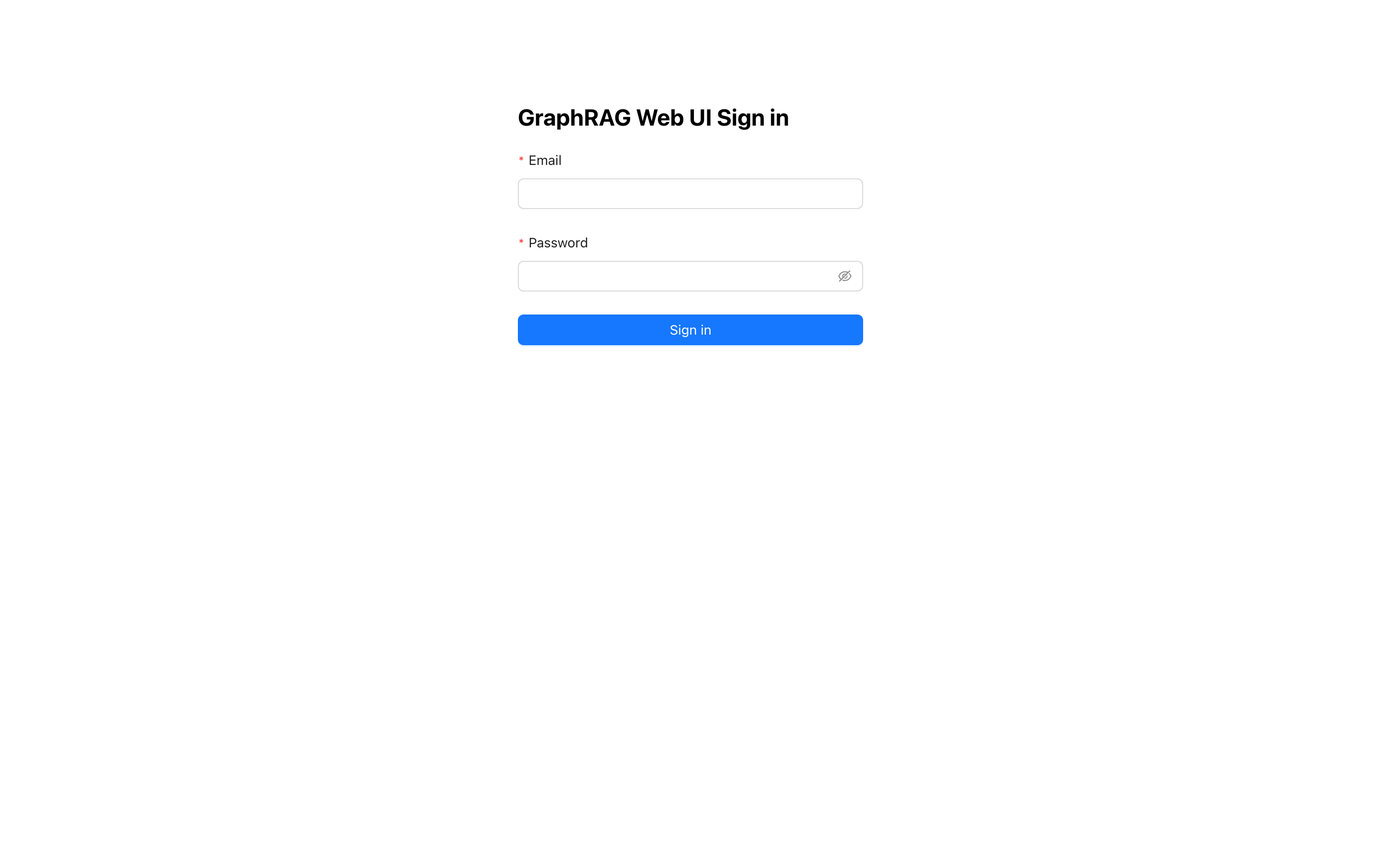
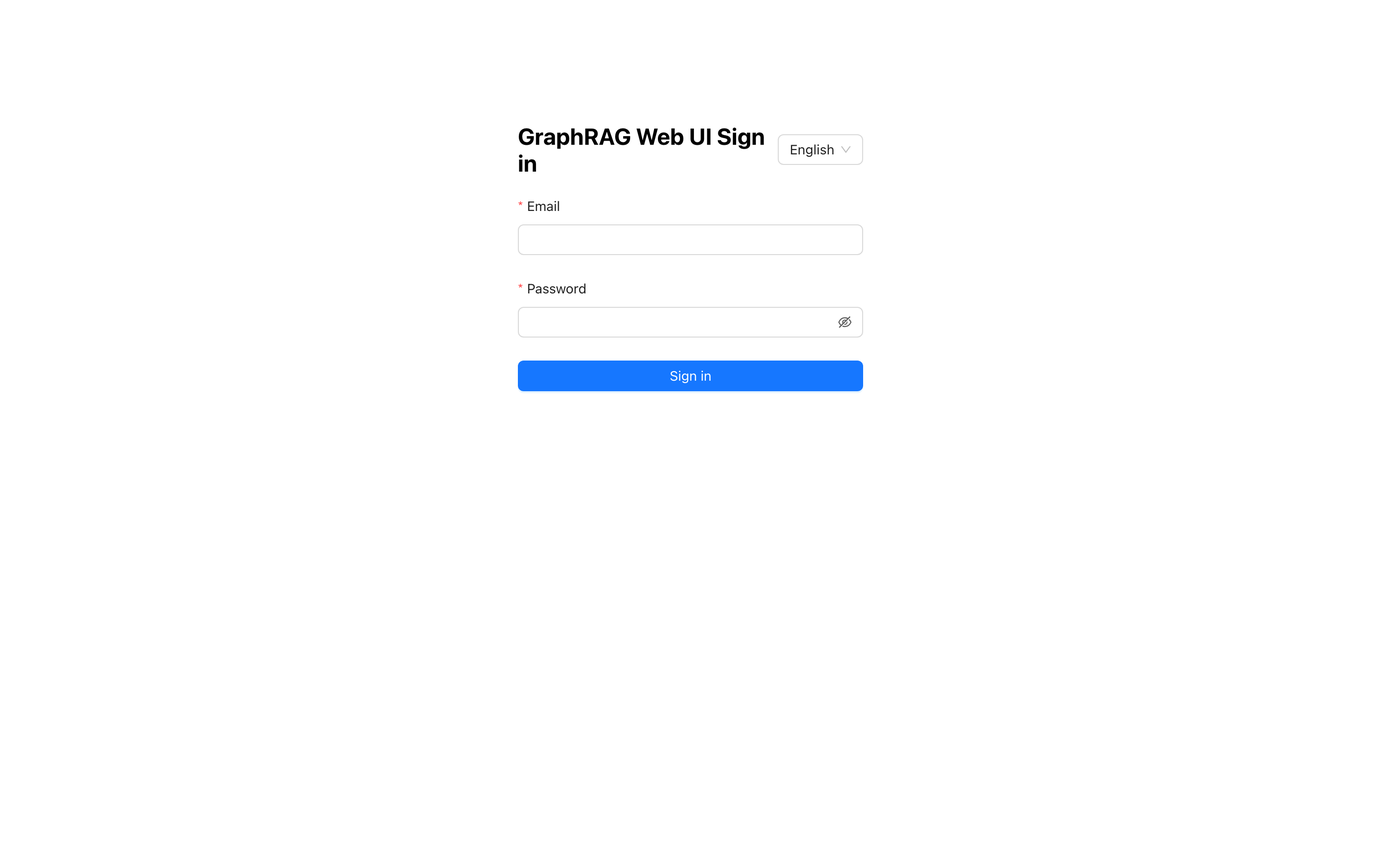
docs(reviews): phase V walkthrough — R4 script re-run, 11 rows into wave F37
Re-ran the R4 nine-step script in both languages on a fresh compose stack
built from main@e47196b (one standard index on the R4 corpus, 2 m 23 s,
all 15 documents indexed). Every R4 P1 and the R4 rows met on the script
are confirmed fixed in the running product. The README screenshots were
regenerated with `npm run screenshots`.

The walk found 11 new rows (P2 1, P3 10), recorded in
reviews/2026-10-02-v-walkthrough.md and added to the backlog as wave F37.
At the user's call they are fixed before V closes. §8 marks V in progress
with a resume note.

Changed region(s): [[0.375, 0.28, 0.625, 0.4667], [0.375, 0.1244, 0.625, 0.2489]]

diff --git a/docs/superpowers/reviews/2026-10-02-v-walkthrough.md b/docs/superpowers/reviews/2026-10-02-v-walkthrough.md
@@ -1,0 +1,99 @@
+# V — Verify walkthrough (2026-10-02)
+
+## Intro
+
+**Scope.** Phase V's first step: the R4 nine-step script walked again, end to end, on a fresh
+compose stack built from `main@e47196b` (after F1–F36). Both UI languages, 1280 × 800 with 1920
+× 1080 captures of the project list and the graph. The walk had two purposes: confirm that the
+fixes for the R4 findings hold on the real product, and find what is still wrong. The later V
+steps (README, CHANGELOG, closing §8) wait for wave F37, which fixes the rows found here (the
+user's call, 2026-10-02).
+
+**Corpus.** The R4 corpus, `docs/superpowers/reviews/assets/r4-corpus/` (15 documents). Indexed
+once with `standard` (`gpt-4.1` + `text-embedding-3-large`): 2 m 23 s, all 15 documents
+`indexed`.
+
+**Tools run.** Playwright chromium (`frontend/node_modules`, headless, `locale` and
+`Asia/Taipei` pinned per run), driven by session-local scripts that sign in through the login
+form. A separate compose project, `docker compose -p v` on host port 28080 (8080 is held by
+kubefwd), keeps the walk off the regular stack and gives step 1 a real first sign-in. `curl` and
+the API filled in what the screenshots cannot show. Screenshots are in
+`docs/superpowers/reviews/assets/v-NN-<step>-{zh,en}[-1920].png` (141 files, 14 MB).
+
+**No code was changed in this step.** The README screenshots were regenerated with `npm run
+screenshots` (12 files under `docs/assets/screenshots/`).
+
+### Commands and exit status
+
+| command | exit | result |
+|---|---|---|
+| `docker compose -p v -f docker-compose.yml -f <28080 override> up -d --build` | 0 | `/api/ready` → `{"db":"ok","graphrag":"3.1.2","disk_ok":true}` |
+| `npm run screenshots` (BASE_URL=:18080) | 0 | 12 captures, both locales |
+| step 1: wrong password, first sign-in with forced change (short, then valid), admin-created user's forced change | — | as designed (`v-01-*`) |
+| step 2: create project, upload 1 + 14 files, `.csv`, a 51 MiB `.txt`, tags over a selection, tag filter, preview | — | 51 MiB refused client-side with the cap named; `.csv` refused with the accepted types (`v-02-*`); **V-01**, **V-02** |
+| step 3: bad env key name, real key (masked), form mode edit + save, invalid YAML, leave guard, offline check | — | all as designed (`v-03-*`) |
+| step 4: `standard` index via UI, log drawer, settings and documents during the job, settings `PUT` during the job, modify one + delete one | — | `succeeded` 148 s; `PUT` → 409 `project_indexing`; settings and documents frozen with a notice; **V-03**, **V-04**, **V-05** |
+| step 5: four modes (local 10.4 s, global 14.4 s, basic 5.4 s, drift 92.8 s), citations, preview at passage, removed-document citation, invalid key | — | `<mark>` at the passage; removed source greyed with a tooltip; **V-06** |
+| step 6: question set created in the UI, three questions, two `basic` runs, keyboard rating, regressions filter, compare, edit a question with runs | — | all work; **V-07**, **V-08**, **V-09** |
+| step 7: graph, node click, six tables, row detail, un-indexed project | — | `not_indexed` empty state with *Go to jobs*; **V-10** |
+| step 8: members (add defaults to viewer), audit, roles; `user_admin`; project `viewer` incl. admin URL and a foreign project | — | hidden vs 403 correct; **V-11** |
+| step 9: overview and project list after each change | — | the ladder picks the right card at every step |
+
+## R4 findings re-checked
+
+Every R4 P1 and the R4 rows a user meets on the script were checked in the running product:
+
+| R4 row | now |
+|---|---|
+| R4-01 false "modified by someone else" on any 409 | settings `PUT` during the job → toast + frozen pane (`v-04-settings-frozen-zh.png`) |
+| R4-02 form mode shows empty model fields | model, embedding and chunking fields filled (`v-03-form-mode-*.png`) |
+| R4-03 retrieval page dead-ends without a set | lands on the ad-hoc query; *Create question set* in the matrix (`v-05-tests-landing-*.png`) |
+| R4-04 / R4-05 overview says "index nothing" / "re-index" | info card for uploads, API-key card, healthy after the first index (`v-02-overview-uploaded-*`, `v-04-overview-indexed-zh.png`) |
+| R4-40 citations link only on the stream | links on the stream and in stored batch results (`v-06-drawer-zh.png`) |
+| R3-01 / R1-67 first index marks every file `skipped` | all 15 `indexed` (`v-04-files-indexed-zh.png`) |
+| R4-42 key rotation ignored until restart | the next query after `PATCH /env` fails (`v-05-badkey-*`) |
+| R4-08 413 shown as "upload failed (413)" | refused before sending, cap named (`v-02-files-upload-toolarge-*`) |
+| R4-13 preview never shows the match | passage marked and scrolled, one header line (`v-05-citation-preview-*`) |
+| R4-15 un-indexed Explore says "No data" | `not_indexed` sentence + *Go to jobs* (`v-07-unindexed-*`) |
+| R4-16 add-member defaults to editor | defaults to viewer (`v-08-members-add-default-zh.png`) |
+| R4-17 viewer's audit 403 reads as "no entries" | 403 page with *Back to projects* (`v-08-viewer-admin-url-en.png`) |
+| R4-22 unsaved settings lost silently | dirty marker + leave guard (`v-03-leave-guard-zh.png`) |
+| R4-24 dry-run "passes" with a fake key | "Check settings (offline)" says the model is not called (`v-03-dryrun-result-zh.png`) |
+| R4-06 run banner persists after the run | gone when the run finishes; *Cancel run* and "0 of 3 answered" while it runs (`v-06-running-1-zh.png`) |
+
+## Findings
+
+| id | severity | effort | area | finding | evidence | recommendation |
+|---|---|---|---|---|---|---|
+| V-01 | P3 | S | frontend/components | In the *Tag selected…* dialog, pressing Enter after typing a tag leaves the tags dropdown open over the footer, so *Add to 3 documents* and *Remove from…* are hidden until the user clicks elsewhere in the dialog. | `v-02-files-tag-dropdown-covers-actions-zh.png`; `components/files/TagsModal.tsx:120-130` (`mode="tags"`, `autoFocus`) | Close the dropdown on select (`open` controlled, or `onSelect` → blur), or place the actions above the select. |
+| V-02 | P3 | S | frontend/components | The upload hint joins the accepted extensions without a space: "Accepts .txt,.md only" / 「僅接受 .txt,.md」. | `v-02-files-bulk-done-en.png`; `components/files/UploadArea.tsx:116` (`accept` is the input's comma list) | Format the list for display (`accept.split(",").join(", ")`, or `、` in zh-TW) and keep the raw value for the input. |
+| V-03 | P3 | S | backend/services | A succeeded index job keeps `progress = {done: 9, total: 10}` although its final `stats` lists all 10 workflows: progress is written only on heartbeats, and the last workflow finished after the last one. The UI shows progress on running rows only, but API readers see a finished job that never reached 10. | `GET /api/jobs/{id}` → `succeeded {"done":9,"total":10}`, 10 keys in `stats.workflows`; `services/runner_loop.py:131-139` | On a succeeded finish, write `progress` from the final stats (or `done = total`) in the same `finish` transaction. |
+| V-04 | P3 | S | frontend/components | While an index runs, the overview's action card renders as an **error** (red ✖ "Job running"). A normal running job is not an error; the red competes with real failures on the same card. | `v-04-overview-running-zh.png`; `components/project/nextAction.ts:54` (`severity: "error"`) | Use `info` for the active-job card (spec §9.3 names no severity for rule 1); record it in the spec. |
+| V-05 | P3 | S | frontend/pages | The overview shows the last index time twice: the *Last index* stat tile and the *Last index* card ("Index, finished …") below it. In zh-TW the two labels even differ (上次索引 / 最近一次索引) for the same value. | `v-09-overview-final-*.png`; `pages/ProjectOverview.tsx:53-54,69-73` | Keep one: drop the tile, or make the card show what the tile cannot (duration, document count, a link to the log). |
+| V-06 | P2 | S | frontend/components | A failed query (here: an invalid API key) shows only a transient "Query failed" toast. After it fades the answer area is empty, with no error state, and nothing points at the likely cause (key or model settings). The user is left with a blank page and no next step. | `v-05-badkey-inflight-zh.png` (toast at 2.5 s), `v-05-badkey-zh.png` (blank afterwards); `components/tests/AdhocQuery.tsx:83,122` (`message.error` only) | Render the failure inline in the answer area (antd `Alert`, kept until the next run) with the catalogued message and, for `query_failed` / `query_config_failed`, a hint and link: "Check the model settings and API key in Settings". |
+| V-07 | P3 | S | frontend/components | The launch dialog names the method by its raw id: "Run 3 questions with the "basic" method" / 「將以「basic」方法執行 3 題」. Its code comment says the matrix columns show the id. Since F29 they show the localized `runLabel` ("Basic · Oct 2, 11:53 AM"), so the dialog now disagrees with the matrix. | `v-06-launch-1-zh.png`; `components/tests/LaunchDialog.tsx:51-56` | Pass `methodLabel(method, t)` and update the comment. |
+| V-08 | P3 | S | frontend/components | Two runs started within the same minute get identical names ("Basic · Oct 2, 11:53 AM") in the matrix headers, the compare modal and the cells' aria-labels, so neither a sighted user nor a screen reader can tell them apart. Running the set twice in a row hits this. | `v-06-matrix-run2-zh.png`, `v-06-compare-en.png`; cell aria-labels from step 6 (six labels, three distinct); `components/tests/methods.ts:28-29` (`formatShortDateTime`, minute precision) | Disambiguate equal labels: append seconds when two visible runs share the minute, or a run ordinal (#1, #2) to the label. |
+| V-09 | P3 | S | frontend/components | The compare modal diffs the raw answer text, so users see Markdown syntax (`### Grace Hopper …`, `[Data: Sources (12)]`) that the result drawer renders. | `v-06-compare-en.png`; `components/tests/RunDiff.tsx:40-46` (`pre-wrap` paragraphs of the raw text) | Diff on the rendered sentences: strip heading/emphasis markers and the citation markers before `sentenceDiff`, or render each side through `Markdown` with the diff marks applied per block. |
+| V-10 | P3 | S | spec | The graph defaults to the finest community level (spec §6.1: `MAX(level)`). On the 15-document corpus that level covers about 15 % of the nodes: the legend reads "No community (236)", and most of the graph is grey. Level 0 colours every node. | `v-07-graph-en-1920.png`; `adapters/artifacts.py:104-109`; spec `2026-08-19` §6.1 graph bullet | Default to the level that assigns the most entities, ties to the coarser level (one `COUNT` per level in the same duckdb query), and amend §6.1. |
+| V-11 | P3 | S | frontend/pages | Opening a project the user cannot see renders the 403 page and also raises an error toast ("Forbidden" / 「無權限」) from the global query-error handler. The toast says the same thing again, on a page whose only job is to say it. | `v-08-viewer-foreign-project-en.png`, `v-08-ua-foreign-project-en.png`; `api/queries.ts:42-45` (`projectById` has no `meta.silent`), `pages/ProjectDetail.tsx:54,64` | Mark `projectById` `meta: { silent: true }` (ProjectDetail renders every error in place) and add a test that the 403 page raises no toast. |
+
+## Verified OK
+
+- First sign-in: wrong password message, forced change with an 8-character rule that cannot be
+  skipped; admin-created users are forced too.
+- Project list empty state with *Create the first project*; health flags after each change
+  ("Deleted documents still in the index", "1 to index").
+- Uploads: per-file toast, one summary for 14 files, wrong extension and over-cap refusals
+  named; the removed row offers no Delete and explains itself in a tooltip.
+- Settings: placeholder alert, masked key, form-mode values, dirty marker, inline YAML error
+  with line/column and *Go to line*, leave guard, the offline-check wording.
+- Jobs: confirm names count, method and billing; log drawer titled with type, method and
+  start; Start disabled with a notice while a job runs; viewer sees Start disabled.
+- Query: method hints, elapsed counter, *Answered in N s*, Markdown answers with anchored
+  citation markers, preview at the passage.
+- Workbench: empty-set launch refused (Start disabled at 0 questions), *Cancel run* and
+  per-question progress, 1/2/3 rating advances, regressions filter, edit-with-runs warning.
+- Explore: legend, zoom controls, node click → entity drawer, `not_indexed` empty state.
+- RBAC: viewer sees no edit affordances; admin URLs and foreign projects render the 403 page.
+- No console errors other than the requests the script made fail on purpose (401 wrong
+  password, 400 bad key / invalid YAML, 403/409 on refused pages).

diff --git a/docs/superpowers/reviews/backlog.md b/docs/superpowers/reviews/backlog.md
@@ -100,6 +100,7 @@ Sizes count the row efforts (S < 1 h, M half a session, L a session) with same-f
 | F34 | Frontend structure leftovers | 6 | 4 S + 2 M | P3 |
 | F35 | Test gaps | 7 | 7 S | P3 |
 | F36 | Spec errata | 6 | 5 S + 1 M | P3 |
+| F37 | V walkthrough findings | 11 | 11 S | P2 |
 
 ### F1 — Config trust boundary
 
@@ -623,6 +624,22 @@ One dated *Errata / as-built* section per spec (hygiene B2 policy) plus the deci
 - **R3-26** (P3/M, `spec`) settings-editor spec deviations to record (form blocks, container check, diff, format change)
 - **R2-38** (P3/S, `spec`) proxy spec §9: `.internal` is accepted; conftest patches `.local` out
 
+### F37 — V walkthrough findings
+
+Rows found by phase V's re-run of the R4 script (`reviews/2026-10-02-v-walkthrough.md`), fixed before V closes (user's call, 2026-10-02). All frontend except V-03 (runner) and V-10 (artifacts + spec).
+
+- **V-06** (P2/S, `frontend/components`) a failed query leaves only a transient toast — no inline error, no pointer to the key/model settings
+- **V-01** (P3/S, `frontend/components`) tag dialog: the dropdown covers the Add/Remove actions after Enter
+- **V-02** (P3/S, `frontend/components`) upload hint lists extensions without a space (`.txt,.md`)
+- **V-03** (P3/S, `backend/services`) a succeeded job keeps `progress` 9 of 10
+- **V-04** (P3/S, `frontend/components`) running-job action card renders as an error
+- **V-05** (P3/S, `frontend/pages`) overview shows the last index twice
+- **V-07** (P3/S, `frontend/components`) launch dialog names the method by its raw id
+- **V-08** (P3/S, `frontend/components`) runs started in the same minute get identical names
+- **V-09** (P3/S, `frontend/components`) compare modal shows raw Markdown and citation markers
+- **V-10** (P3/S, `spec`) graph defaults to the finest level, where most entities have no community
+- **V-11** (P3/S, `frontend/pages`) 403 page plus a redundant error toast
+
 ### won't-fix (proposed)
 
 - **R1-15** (P2/S) review gate script's pip-audit fallback prints a misleading `exit 0` — review-tooling defect in a one-off gate script, not the product; recorded in the plan's notes
@@ -890,3 +907,14 @@ All 235 rows, verbatim from the review documents, ranked by severity, then effor
 | F30-03 | P3 | S | frontend/pages | Flaky vitest case: `ProjectDetail.test.tsx` "adding a member confirms with a toast (R4-16)" failed once on the docs-only PR #102 with `Found multiple elements with the text: 已新增成員` and passed on the parallel run of the same commit. `getByText` sees two toasts, apparently one left from an earlier case or a double notify. Same file as F1-01. Found mid-F30. | CI PR #102 `frontend` job: "Tests 1 failed \| 349 passed (350)" | Assert with `findAllByText(...).length >= 1`, or scope to the latest notice and clear antd `message`/`notification` in `afterEach`, so a leftover toast cannot collide. | F35 | done (#110) |
 | F31-01 | P2 | S | backend/deps | A new advisory turned the required CI `audit` job red on PR #104: CVE-2026-84377 on `litellm` 1.92.0 (a LiteLLM proxy credential-exfiltration flaw; this app uses only the SDK), fixed in 1.92.2. graphrag-llm 3.1.2 pins `litellm==1.92.0`, so a lock upgrade alone cannot resolve. Found mid-F31. | CI run 36809511093, `audit` job: `pip-audit` → "Found 1 known vulnerability, ignored 1 in 1 package" | `[tool.uv] override-dependencies` adds `litellm==1.92.2` beside the nltk override (same-minor patch release); AGENTS.md notes both overrides to drop on a graphrag bump. | F31 | done (#104) |
 | F35-01 | P3 | S | frontend/pages | Five Modal `onOk` handlers (AdminUsers create/edit/reset, Projects create, ProjectInfo edit) called `form.validateFields().then(...)` with no rejection handler, so every submit with an invalid field raised an unhandled promise rejection in the browser (antd shows the field errors either way). Found mid-F35: the new AdminUsers too-short-password test failed the vitest run with `Unhandled Rejection … errorFields`. | `frontend/src/pages/AdminUsers.tsx:169,222,262`, `Projects.tsx:176`, `components/project/ProjectInfo.tsx:72` (pre-#110); vitest `Errors 1 error` on `AdminUsersActions.test.tsx` | `components/onValid.ts` wraps validate-then-submit and swallows the validation rejection; all five sites use it. | F35 | done (#110) |
+| V-01 | P3 | S | frontend/components | In the *Tag selected…* dialog, pressing Enter after typing a tag leaves the tags dropdown open over the footer, so *Add to 3 documents* and *Remove from…* are hidden until the user clicks elsewhere in the dialog. | `v-02-files-tag-dropdown-covers-actions-zh.png`; `components/files/TagsModal.tsx:120-130` (`mode="tags"`, `autoFocus`) | Close the dropdown on select (`open` controlled, or `onSelect` → blur), or place the actions above the select. | F37 | open |
+| V-02 | P3 | S | frontend/components | The upload hint joins the accepted extensions without a space: "Accepts .txt,.md only" / 「僅接受 .txt,.md」. | `v-02-files-bulk-done-en.png`; `components/files/UploadArea.tsx:116` (`accept` is the input's comma list) | Format the list for display (`accept.split(",").join(", ")`, or `、` in zh-TW) and keep the raw value for the input. | F37 | open |
+| V-03 | P3 | S | backend/services | A succeeded index job keeps `progress = {done: 9, total: 10}` although its final `stats` lists all 10 workflows: progress is written only on heartbeats, and the last workflow finished after the last one. The UI shows progress on running rows only, but API readers see a finished job that never reached 10. | `GET /api/jobs/{id}` → `succeeded {"done":9,"total":10}`, 10 keys in `stats.workflows`; `services/runner_loop.py:131-139` | On a succeeded finish, write `progress` from the final stats (or `done = total`) in the same `finish` transaction. | F37 | open |
+| V-04 | P3 | S | frontend/components | While an index runs, the overview's action card renders as an **error** (red ✖ "Job running"). A normal running job is not an error; the red competes with real failures on the same card. | `v-04-overview-running-zh.png`; `components/project/nextAction.ts:54` (`severity: "error"`) | Use `info` for the active-job card (spec §9.3 names no severity for rule 1); record it in the spec. | F37 | open |
+| V-05 | P3 | S | frontend/pages | The overview shows the last index time twice: the *Last index* stat tile and the *Last index* card ("Index, finished …") below it. In zh-TW the two labels even differ (上次索引 / 最近一次索引) for the same value. | `v-09-overview-final-*.png`; `pages/ProjectOverview.tsx:53-54,69-73` | Keep one: drop the tile, or make the card show what the tile cannot (duration, document count, a link to the log). | F37 | open |
+| V-06 | P2 | S | frontend/components | A failed query (here: an invalid API key) shows only a transient "Query failed" toast. After it fades the answer area is empty, with no error state, and nothing points at the likely cause (key or model settings). The user is left with a blank page and no next step. | `v-05-badkey-inflight-zh.png` (toast at 2.5 s), `v-05-badkey-zh.png` (blank afterwards); `components/tests/AdhocQuery.tsx:83,122` (`message.error` only) | Render the failure inline in the answer area (antd `Alert`, kept until the next run) with the catalogued message and, for `query_failed` / `query_config_failed`, a hint and link: "Check the model settings and API key in Settings". | F37 | open |
+| V-07 | P3 | S | frontend/components | The launch dialog names the method by its raw id: "Run 3 questions with the "basic" method" / 「將以「basic」方法執行 3 題」. Its code comment says the matrix columns show the id. Since F29 they show the localized `runLabel` ("Basic · Oct 2, 11:53 AM"), so the dialog now disagrees with the matrix. | `v-06-launch-1-zh.png`; `components/tests/LaunchDialog.tsx:51-56` | Pass `methodLabel(method, t)` and update the comment. | F37 | open |
+| V-08 | P3 | S | frontend/components | Two runs started within the same minute get identical names ("Basic · Oct 2, 11:53 AM") in the matrix headers, the compare modal and the cells' aria-labels, so neither a sighted user nor a screen reader can tell them apart. Running the set twice in a row hits this. | `v-06-matrix-run2-zh.png`, `v-06-compare-en.png`; cell aria-labels from step 6 (six labels, three distinct); `components/tests/methods.ts:28-29` (`formatShortDateTime`, minute precision) | Disambiguate equal labels: append seconds when two visible runs share the minute, or a run ordinal (#1, #2) to the label. | F37 | open |
+| V-09 | P3 | S | frontend/components | The compare modal diffs the raw answer text, so users see Markdown syntax (`### Grace Hopper …`, `[Data: Sources (12)]`) that the result drawer renders. | `v-06-compare-en.png`; `components/tests/RunDiff.tsx:40-46` (`pre-wrap` paragraphs of the raw text) | Diff on the rendered sentences: strip heading/emphasis markers and the citation markers before `sentenceDiff`, or render each side through `Markdown` with the diff marks applied per block. | F37 | open |
+| V-10 | P3 | S | spec | The graph defaults to the finest community level (spec §6.1: `MAX(level)`). On the 15-document corpus that level covers about 15 % of the nodes: the legend reads "No community (236)", and most of the graph is grey. Level 0 colours every node. | `v-07-graph-en-1920.png`; `adapters/artifacts.py:104-109`; spec `2026-08-19` §6.1 graph bullet | Default to the level that assigns the most entities, ties to the coarser level (one `COUNT` per level in the same duckdb query), and amend §6.1. | F37 | open |
+| V-11 | P3 | S | frontend/pages | Opening a project the user cannot see renders the 403 page and also raises an error toast ("Forbidden" / 「無權限」) from the global query-error handler. The toast says the same thing again, on a page whose only job is to say it. | `v-08-viewer-foreign-project-en.png`, `v-08-ua-foreign-project-en.png`; `api/queries.ts:42-45` (`projectById` has no `meta.silent`), `pages/ProjectDetail.tsx:54,64` | Mark `projectById` `meta: { silent: true }` (ProjectDetail renders every error in place) and add a test that the 403 page raises no toast. | F37 | open |

diff --git a/docs/superpowers/plans/2026-09-19-quality-review-programme.md b/docs/superpowers/plans/2026-09-19-quality-review-programme.md
@@ -426,7 +426,8 @@ CHANGELOG and AGENTS.md counts. Mark §8 complete. PR, rebase-merge.
 | F34 | done | 2026-10-01 | PR #108 | Frontend structure leftovers — R1-60, R1-61, R1-50, R1-53, R1-118, R1-115 closed. The project and admin pages are route-level chunks through `components/lazyPage`, which (unlike a bare `React.lazy`) refetches a failed chunk on the boundary's Retry; Suspense sits under Layout's boundary and ProjectDetail's outlet. The vendor regex is anchored on the package directory (antd, `@ant-design`, `@rc-component`, react runtime). Entry chunk 317 → 270 kB, vendor 1,294 → 1,193 kB, js-yaml only in the ProjectDetail chunk; Vite's >500 kB advisory stays (antd alone exceeds it). No component is over 300 lines: SettingsPanel 530 → 256 (`components/settings/`), Workbench 580 → 287 (MatrixToolbar, QuestionList, LaunchDialog, SetNameDialog), ProjectDetail 412 → 141 (`project/MembersPane`, `ProjectInfo`), and JobsPanel 351 → 248 / FilesPanel 325 → 232, which grew past 300 after the review. antd `direction`/`destroyOnClose` renamed with a source-scan guard; the last oxlint warning fixed and lint at `--max-warnings=0`; `canUse` removed; one rating vocabulary (`SCORES`/`RATING_META`); form-mode YAML parsed once per content change. 361 vitest, lint at 0, all CI jobs green. **Checked live** on the compose stack: every pane, form mode and the admin pages render through nginx, a deep link fetches the ProjectDetail chunk on demand, no console errors. F30-03 flaked once in a full run (F35) |
 | F35 | done | 2026-10-02 | PR #110 | Test gaps — R2-34, R2-35, R2-36, R1-40, R1-41, F1-01, F1-02, F7-01, F30-03 closed, plus F35-01 found mid-wave. `test_members_api.py` (add / change / same role / remove / owner protection / refused roles / unknown user, with the `member.*` audit trail) and the users routes' `user_not_found` over HTTP — `projects_routes`/`users_routes` at 100%, backend 98%; `ProtectedRoute` tests, an `App` route smoke over the real router, and AdminUsers write paths (lines 46% → 94%). Fixed sleeps replaced by waits on the state itself (runner-loop fake runs until the recovered heartbeat lands, cancel waits for the child's output, SSE live-follow appends once a wrapped `tail_log` has yielded — httpx's ASGITransport only hands the client the body at the end — progress and log tail poll for the value); `test_workspace_cli.py` drives init/dry-run failure branches against a fake CLI. The titles module imports `real_corpus_app` and the guard pins all four real-corpus modules' fixtures; `FakeInitializer`/`kinds_of` moved to `tests/helpers.py`, `FrameCache.frames_bytes`/`invalidate` removed; `__test__ = False` on the `Test*` ORM classes. `setupTests` raises `asyncUtilTimeout` to 5 s and destroys antd toasts after every test (F1-01/F30-03 as classes, not per file). F35-01: five dialogs leaked an unhandled `validateFields` rejection on invalid submit — `components/onValid`. 802 backend (796 fast) + 374 vitest, lint at 0, all CI jobs green. Paid slow tests not run |
 | F36 | done | 2026-10-02 | PR #112 | Spec errata: R1-63, R1-64, R1-65, R3-31, R3-26 and R2-38 are closed. Amendments are dated F36 and placed next to the stale text, the convention F1–F35 used, and each spec now ends with an errata index (main §14, i18n §9, proxy, KM §14). Main spec §9 is rewritten to match AGENTS.md and the code: the real tree, flat graphrag adapters, and services allowed to use SQLAlchemy. Decision D6 is recorded in §6.1/§6.2/§6.4/§6.5/§7: the form mode has three blocks, there is no container-name check (only lancedb is allowed), the input format is locked at creation, and the conflict modal shows two full texts. §13 records the 3.1.2 pin, D8 and the Docker gate, and §14 says where each of D1–D8 is recorded. The i18n §4.2 catalog gains the six remaining codes (71 in total), and the §4.1/§5.1 errata note that wire details are English. Proxy §9 now says `.internal` is accepted, pinned by `test_resolver_special_use_domains`, which runs without conftest's `.local` relaxation. The KM errata cover the F27 renames. R1-65 had already been fixed by F20. The hygiene and RBAC specs needed no errata. 809 backend (803 fast) + 374 vitest, lint at 0, all CI jobs green |
-| V | todo | | | |
+| F37 | todo | | | V walkthrough findings (11 rows, V-01…V-11) |
+| V | in progress | 2026-10-02 | `reviews/2026-10-02-v-walkthrough.md` + `reviews/assets/v-*.png` (141) | R4 script re-walked in both languages on a fresh `-p v` stack from `main@e47196b` (one `standard` index, 2 m 23 s, all 15 `indexed`); every R4 P1 confirmed fixed; README screenshots regenerated. 11 new rows (P2 1, P3 10) became wave F37, to be fixed before closing (user's call). **Resume from:** after F37 merges — regen `openapi.json`/types (expect no diff), README both languages, CHANGELOG `Unreleased` → dated entry, AGENTS.md counts, mark §8 complete |
 
 Statuses: `todo` · `in progress` · `done` · `skipped (reason)`. A
 session that ends without finishing its phase writes `in progress` and
